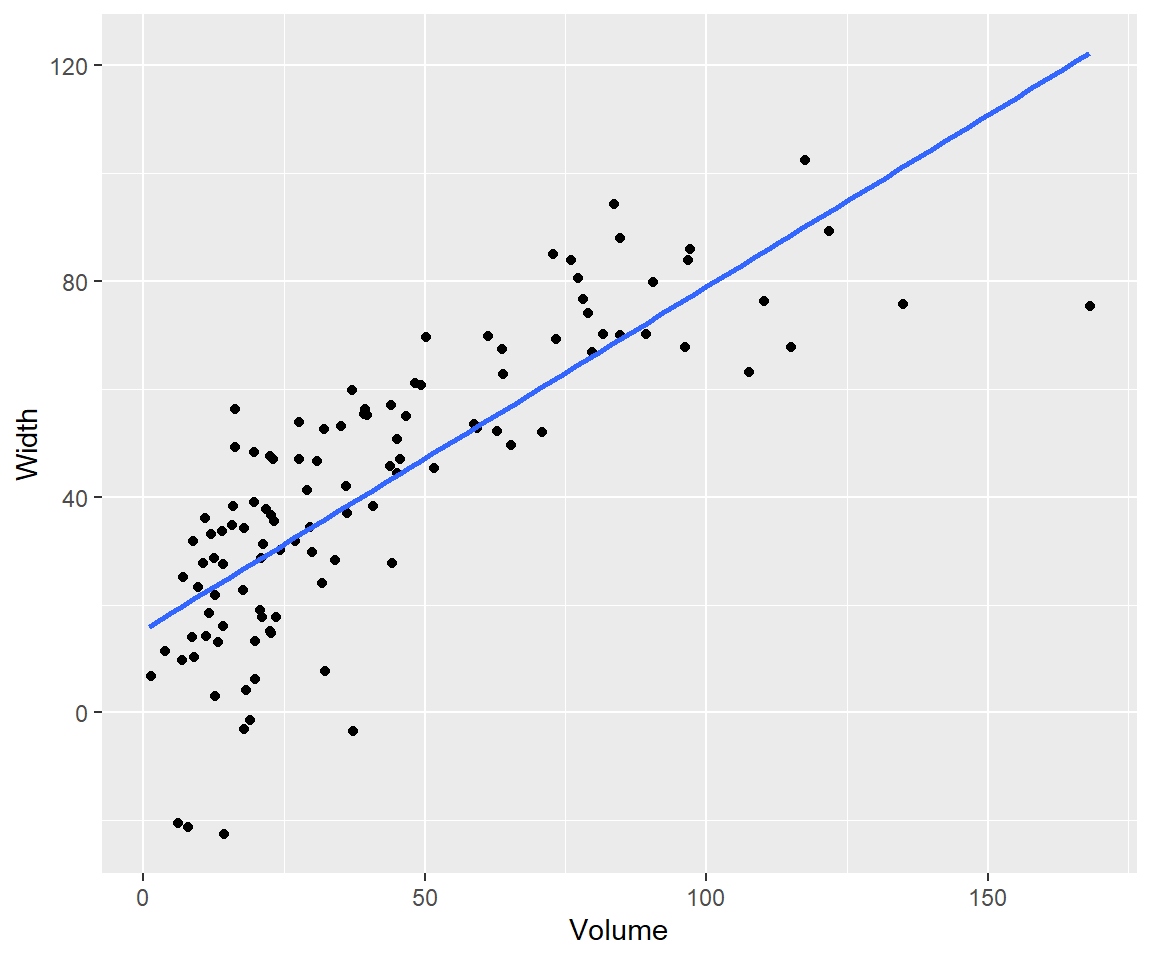
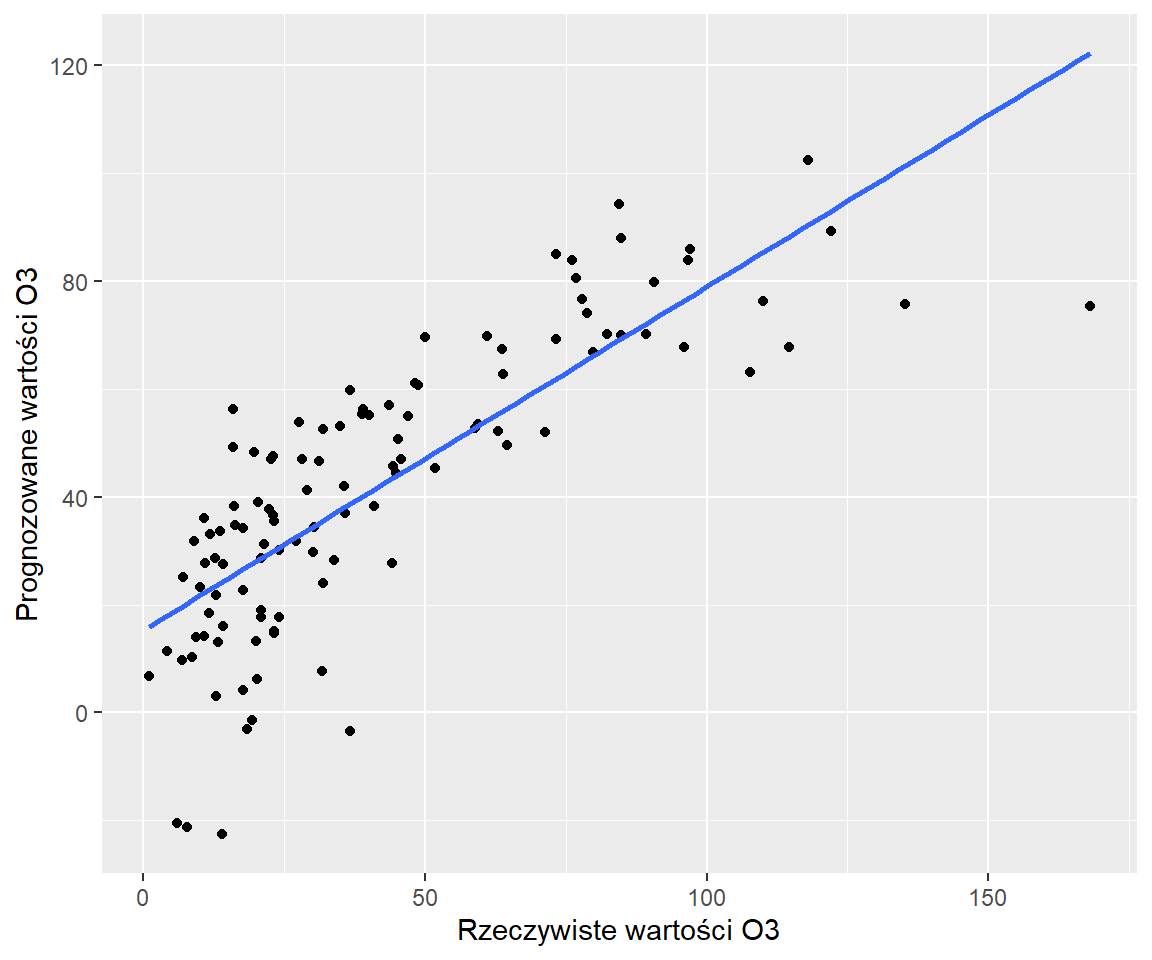
Adjustments of comparisong plot

diff --git a/Meeting_1/Cwiczenie_1.html b/Meeting_1/Cwiczenie_1.html
@@ -267,12 +267,12 @@ F-statistic: 25.81 on 7 and 103 DF,  p-value: &lt; 2.2e-16</code></pre>
 </div>
 <details open="" class="code-fold">
 <summary>Ukryj/pokaż kod</summary>
-<div class="sourceCode cell-code" id="cb11"><pre class="sourceCode r code-with-copy"><code class="sourceCode r"><span id="cb11-1"><a href="#cb11-1" aria-hidden="true" tabindex="-1"></a><span class="co"># wykres </span></span>
+<div class="sourceCode cell-code" id="cb11"><pre class="sourceCode r code-with-copy"><code class="sourceCode r"><span id="cb11-1"><a href="#cb11-1" aria-hidden="true" tabindex="-1"></a><span class="co"># wykres przewidywanych wartości vs rzeczywistych.</span></span>
 <span id="cb11-2"><a href="#cb11-2" aria-hidden="true" tabindex="-1"></a><span class="fu">ggplot</span>(air,</span>
-<span id="cb11-3"><a href="#cb11-3" aria-hidden="true" tabindex="-1"></a>       <span class="fu">aes</span>(ozone, predicted_ozone)) <span class="sc">+</span>      <span class="co"># returns a ggplot object </span></span>
-<span id="cb11-4"><a href="#cb11-4" aria-hidden="true" tabindex="-1"></a>  <span class="fu">geom_jitter</span>() <span class="sc">+</span>                         <span class="co"># same</span></span>
-<span id="cb11-5"><a href="#cb11-5" aria-hidden="true" tabindex="-1"></a>  <span class="fu">geom_smooth</span>(<span class="at">method =</span> lm, <span class="at">se =</span> <span class="cn">FALSE</span>) <span class="sc">+</span>  <span class="co"># same                    </span></span>
-<span id="cb11-6"><a href="#cb11-6" aria-hidden="true" tabindex="-1"></a>  <span class="fu">labs</span>(<span class="at">x =</span> <span class="st">"Volume"</span>, <span class="at">y =</span> <span class="st">"Width"</span>)         <span class="co"># etc</span></span></code><button title="Copy to Clipboard" class="code-copy-button"><i class="bi"></i></button></pre></div>
+<span id="cb11-3"><a href="#cb11-3" aria-hidden="true" tabindex="-1"></a>       <span class="fu">aes</span>(ozone, predicted_ozone)) <span class="sc">+</span>      </span>
+<span id="cb11-4"><a href="#cb11-4" aria-hidden="true" tabindex="-1"></a>  <span class="fu">geom_jitter</span>() <span class="sc">+</span>                         </span>
+<span id="cb11-5"><a href="#cb11-5" aria-hidden="true" tabindex="-1"></a>  <span class="fu">geom_smooth</span>(<span class="at">method =</span> lm, <span class="at">se =</span> <span class="cn">FALSE</span>) <span class="sc">+</span>                     </span>
+<span id="cb11-6"><a href="#cb11-6" aria-hidden="true" tabindex="-1"></a>  <span class="fu">labs</span>(<span class="at">x =</span> <span class="st">"Rzeczywiste wartości O3"</span>, <span class="at">y =</span> <span class="st">"Prognozowane wartości O3"</span>)         </span></code><button title="Copy to Clipboard" class="code-copy-button"><i class="bi"></i></button></pre></div>
 </details>
 <div class="cell-output-display">
 <div>
@@ -983,12 +983,12 @@ window.document.addEventListener("DOMContentLoaded", function (event) {
 <span id="cb12-95"><a href="#cb12-95" aria-hidden="true" tabindex="-1"></a><span class="fu">summary</span>(lm_mod)</span>
 <span id="cb12-96"><a href="#cb12-96" aria-hidden="true" tabindex="-1"></a></span>
 <span id="cb12-97"><a href="#cb12-97" aria-hidden="true" tabindex="-1"></a></span>
-<span id="cb12-98"><a href="#cb12-98" aria-hidden="true" tabindex="-1"></a><span class="co"># wykres </span></span>
+<span id="cb12-98"><a href="#cb12-98" aria-hidden="true" tabindex="-1"></a><span class="co"># wykres przewidywanych wartości vs rzeczywistych.</span></span>
 <span id="cb12-99"><a href="#cb12-99" aria-hidden="true" tabindex="-1"></a><span class="fu">ggplot</span>(air,</span>
-<span id="cb12-100"><a href="#cb12-100" aria-hidden="true" tabindex="-1"></a>       <span class="fu">aes</span>(ozone, predicted_ozone)) <span class="sc">+</span>      <span class="co"># returns a ggplot object </span></span>
-<span id="cb12-101"><a href="#cb12-101" aria-hidden="true" tabindex="-1"></a>  <span class="fu">geom_jitter</span>() <span class="sc">+</span>                         <span class="co"># same</span></span>
-<span id="cb12-102"><a href="#cb12-102" aria-hidden="true" tabindex="-1"></a>  <span class="fu">geom_smooth</span>(<span class="at">method =</span> lm, <span class="at">se =</span> <span class="cn">FALSE</span>) <span class="sc">+</span>  <span class="co"># same                    </span></span>
-<span id="cb12-103"><a href="#cb12-103" aria-hidden="true" tabindex="-1"></a>  <span class="fu">labs</span>(<span class="at">x =</span> <span class="st">"Volume"</span>, <span class="at">y =</span> <span class="st">"Width"</span>)         <span class="co"># etc</span></span>
+<span id="cb12-100"><a href="#cb12-100" aria-hidden="true" tabindex="-1"></a>       <span class="fu">aes</span>(ozone, predicted_ozone)) <span class="sc">+</span>      </span>
+<span id="cb12-101"><a href="#cb12-101" aria-hidden="true" tabindex="-1"></a>  <span class="fu">geom_jitter</span>() <span class="sc">+</span>                         </span>
+<span id="cb12-102"><a href="#cb12-102" aria-hidden="true" tabindex="-1"></a>  <span class="fu">geom_smooth</span>(<span class="at">method =</span> lm, <span class="at">se =</span> <span class="cn">FALSE</span>) <span class="sc">+</span>                     </span>
+<span id="cb12-103"><a href="#cb12-103" aria-hidden="true" tabindex="-1"></a>  <span class="fu">labs</span>(<span class="at">x =</span> <span class="st">"Rzeczywiste wartości O3"</span>, <span class="at">y =</span> <span class="st">"Prognozowane wartości O3"</span>)         </span>
 <span id="cb12-104"><a href="#cb12-104" aria-hidden="true" tabindex="-1"></a><span class="in">```</span></span>
 </code><button title="Copy to Clipboard" class="code-copy-button"><i class="bi"></i></button></pre></div>
 </div></div></div></div></div>
